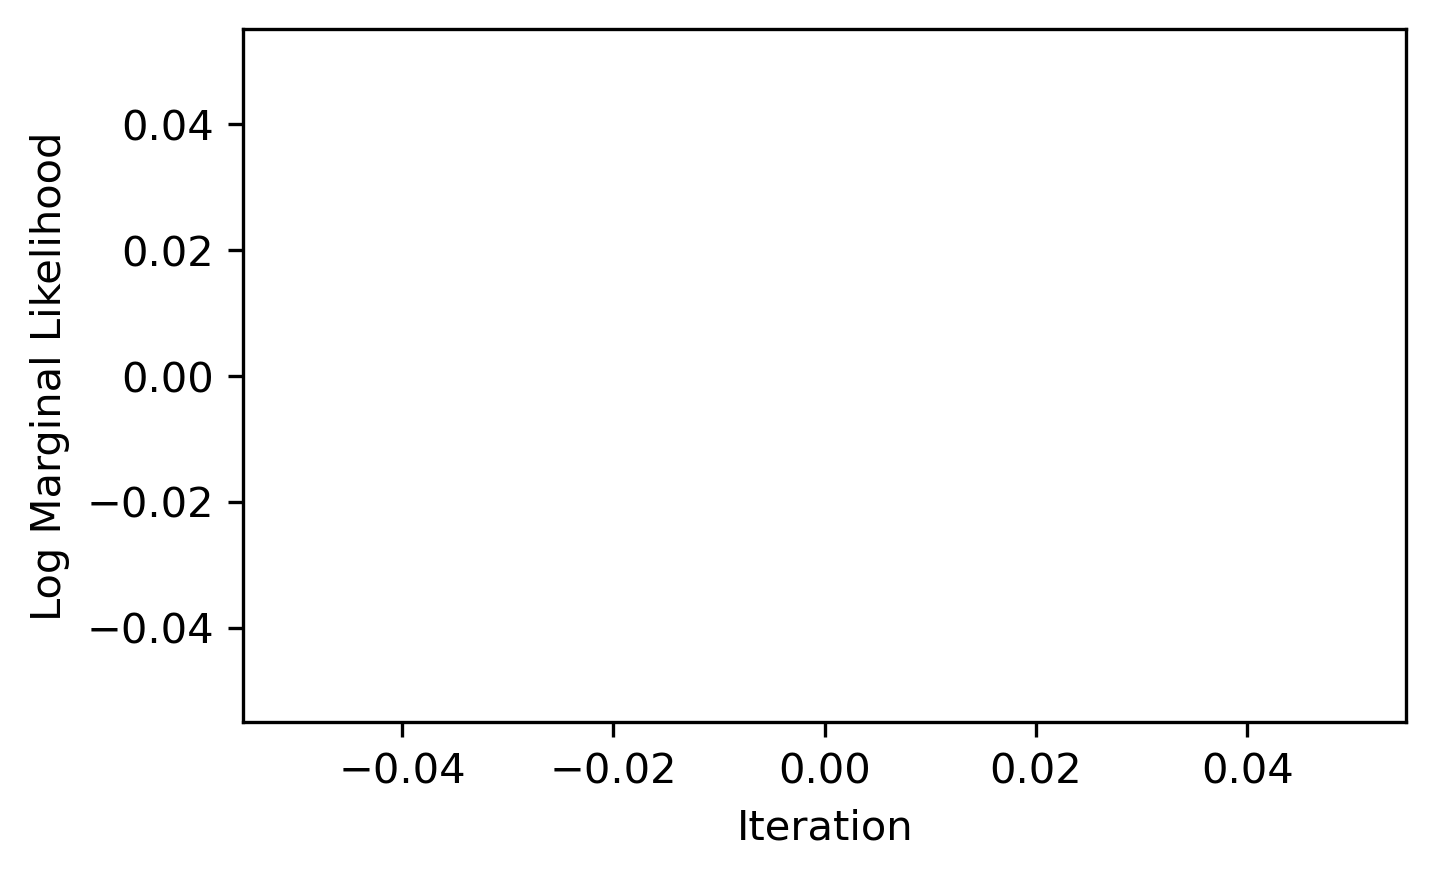
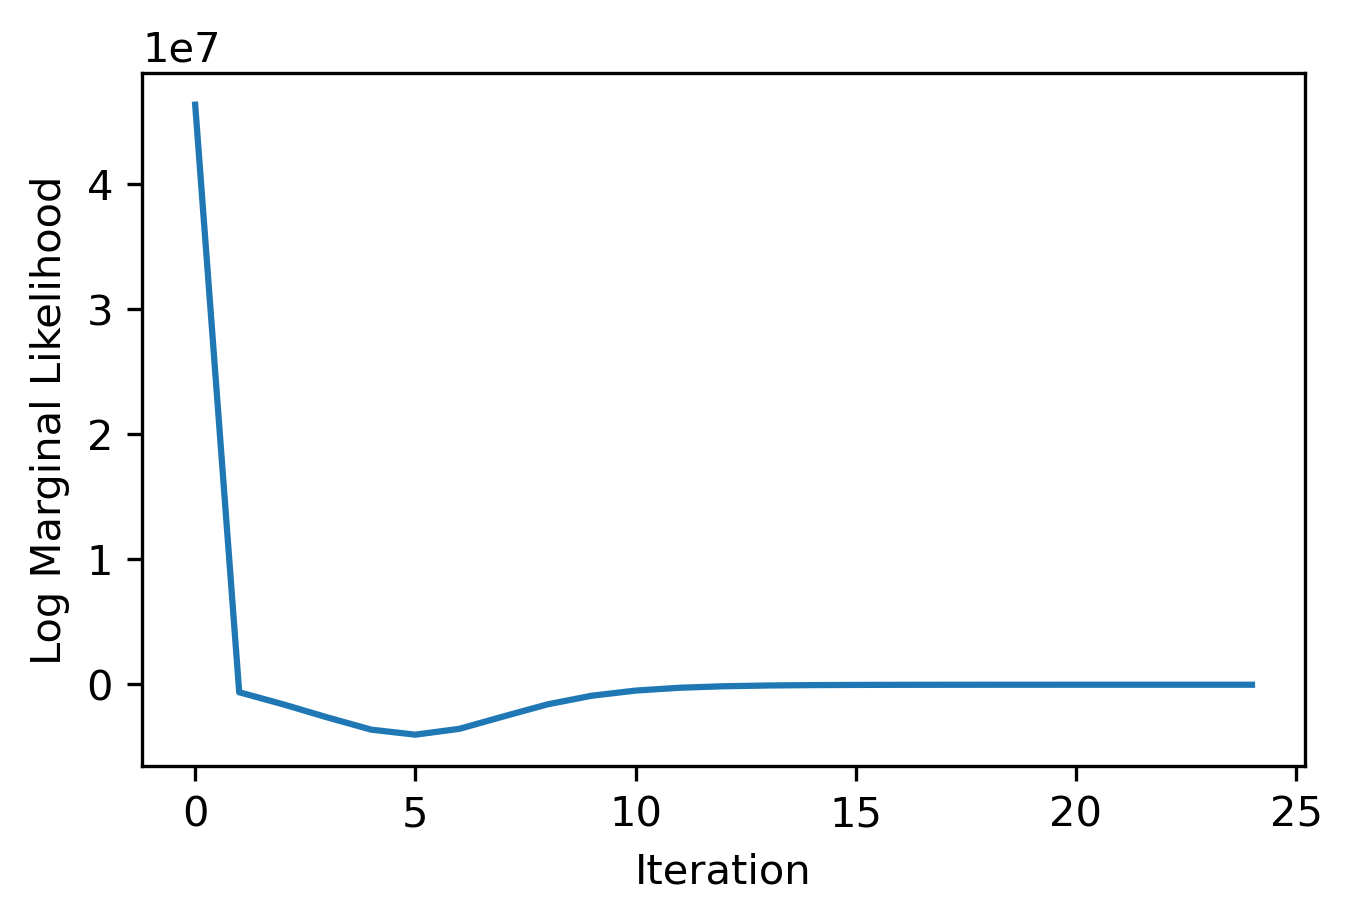
update

Changed region(s): [[0.0, 0.0308, 0.9941, 0.9841], [0.4038, 0.738, 0.932, 0.7688]]

diff --git a/main.py b/main.py
@@ -1,32 +1,48 @@
 import numpy as np
 from sklearn.metrics import mean_squared_error
+from code.cross_validation import cross_validate
 from code.em_algorithm import EMAlgorithm
 from code.lasso import ElasticNet, lambda_search
-from code.load_data import generate_data, load_data
+from code.load_data import generate_data, load_data, split_train_test
 
 
-if __name__ == '__main__':
-    y, Z, X = generate_data(n = 10000, c = 10, p = 5000, omega=[1, 2, 3, 1, 2, 3, 1, 2, 3, 1], sigma_b2 = 1, sigma_e2 = 1)
-    # y, Z, X = load_data(path='lmm_y_z_x.txt')
+def em_algorithm(y, Z, X, omega_init, sigma_b2_init, sigma_e2_init, max_iter=200, tol=1e-6, cv_folds=5):
+
+    y_train, Z_train, X_train, y_test, Z_test, X_test = split_train_test(y, Z, X, test_size=0.2)
 
     # ---------------- EM algorithm ----------------
-    em = EMAlgorithm(tol=1e-6, max_iter=1000)
-    log_marginal_likelihoods, Theta, E_beta = em.fit(y, Z, X)
+    em_params = {'max_iter': max_iter, 'tol': tol, 'omega': omega_init, 'sigma_b2': sigma_b2_init, 'sigma_e2': sigma_e2_init}
+    em = EMAlgorithm(**em_params)
+
+    log_marginal_likelihoods, Theta, E_beta = em.fit(y_train, Z_train, X_train)
 
     print("Log marginal likelihoods:", log_marginal_likelihoods)
     print("Estimate of Theta:", Theta)
     print("Posterior mean of beta:", E_beta)
 
+    y_train_pred = em.predict(Z_train, X_train)
+    print('EM Train MSE:', mean_squared_error(y_train, y_train_pred))
+    y_test_pred = em.predict(Z_test, X_test)
+    print('EM Test MSE:', mean_squared_error(y_test, y_test_pred))
+
+    # Cross validation
+    # cv_mses = cross_validate(y, Z, X, EMAlgorithm, em_params, n_splits=cv_folds)
+
+    # print('CV Mean MSE:', np.mean(cv_mses))
+    # print('CV MSEs:', cv_mses)
+
     em.plot_marginal_likelihood('outputs/log_marginal_likelihoods.png')
 
+def lasso(y, Z, X, cv_folds=10):
+
     # ---------------- LASSO -----------------
-    lasso_params = {'alpha': 0.0005, 'fit_intercept': False, 'l1_ratio': 1.0, 'max_iter': 1000}
+    lasso_params = {'alpha': 0.001, 'fit_intercept': False, 'l1_ratio': 1.0, 'max_iter': 1000}
     lasso = ElasticNet(**lasso_params)
     
     lasso.fit(y, Z, X)
     y_pred = lasso.predict(Z, X)
 
-    print('Train MSE:', mean_squared_error(y, y_pred)) # Calculate MSE
+    print('LASSO Train MSE:', mean_squared_error(y, y_pred)) # Calculate MSE
     
     omega_beta = lasso.coef_
     omega = omega_beta[:Z.shape[1]]
@@ -35,8 +51,20 @@ if __name__ == '__main__':
     print("Estimated omega:", omega)
     print("Estimated beta:", beta)
 
-
-    # ------------------- Search for the best lambda -------------------
-    min_mse, min_average_row = lambda_search(y, Z, X, ElasticNet, lasso_params, lambda_list = np.arange(0.003, 0.04 + 0.0001, 0.0001), save_path='outputs/cv_mses_all.npy', cv_folds=10)
+    # Search for the best lambda
+    min_mse, min_average_row = lambda_search(y, Z, X, ElasticNet, lasso_params, lambda_list = np.arange(0.003, 0.004 + 0.0001, 0.0001), save_path='outputs/cv_mses_all.npy', cv_folds=cv_folds)
     print("Minimum MSE:", min_mse)
     print("Minimum average row:", min_average_row)
+
+
+if __name__ == '__main__':
+    y, Z, X = generate_data(n = 10000, c = 10, p = 5000, omega=[1, 2, 3, 1, 2, 3, 1, 2, 3, 1], sigma_b2 = 1, sigma_e2 = 1)
+    # y, Z, X = load_data(path='lmm_y_z_x.txt')
+
+    
+
+    em_algorithm(y, Z, X, omega_init=np.zeros(10), sigma_b2_init=0.5, sigma_e2_init=0.5, max_iter=200, tol=1e-6, cv_folds=5)
+
+    # lasso(y, Z, X, cv_folds=5)
+
+    

diff --git a/code/em_algorithm.py b/code/em_algorithm.py
@@ -92,11 +92,21 @@ class EMAlgorithm:
             print(log_marginal_likelihood)
             log_marginal_likelihoods.append(log_marginal_likelihood)
 
+        self.n = n
+        self.p = p
+        self.c = c
         self.log_marginal_likelihoods = log_marginal_likelihoods
         self.Theta = Theta
         self.E_beta = E_beta
         return log_marginal_likelihoods, Theta, E_beta
 
+    def predict(self, Z, X):
+        omega = self.Theta[:self.c]
+        E_beta = self.E_beta
+        
+        y_hat = Z @ omega + X @ E_beta
+
+        return y_hat
 
     def plot_marginal_likelihood(self, save_path):
         plt.figure(figsize=(5, 3), dpi=300)

diff --git a/code/load_data.py b/code/load_data.py
@@ -20,3 +20,20 @@ def generate_data(n=10000, c=10, p= 5000, omega=np.random.randn(10), sigma_b2 = 
     y = Z @ omega + X @ beta + e
 
     return y, Z, X
+
+def split_train_test(y, Z, X, test_size=0.2):
+    n = y.shape[0]
+    indices = np.arange(n)
+    np.random.shuffle(indices)
+    train_indices = indices[: int(n * (1 - test_size))]
+    test_indices = indices[int(n * (1 - test_size)) :]
+
+    y_train = y[train_indices]
+    Z_train = Z[train_indices, :]
+    X_train = X[train_indices, :]
+    y_test = y[test_indices]
+    Z_test = Z[test_indices, :]
+    X_test = X[test_indices, :]
+
+    return y_train, Z_train, X_train, y_test, Z_test, X_test
+
